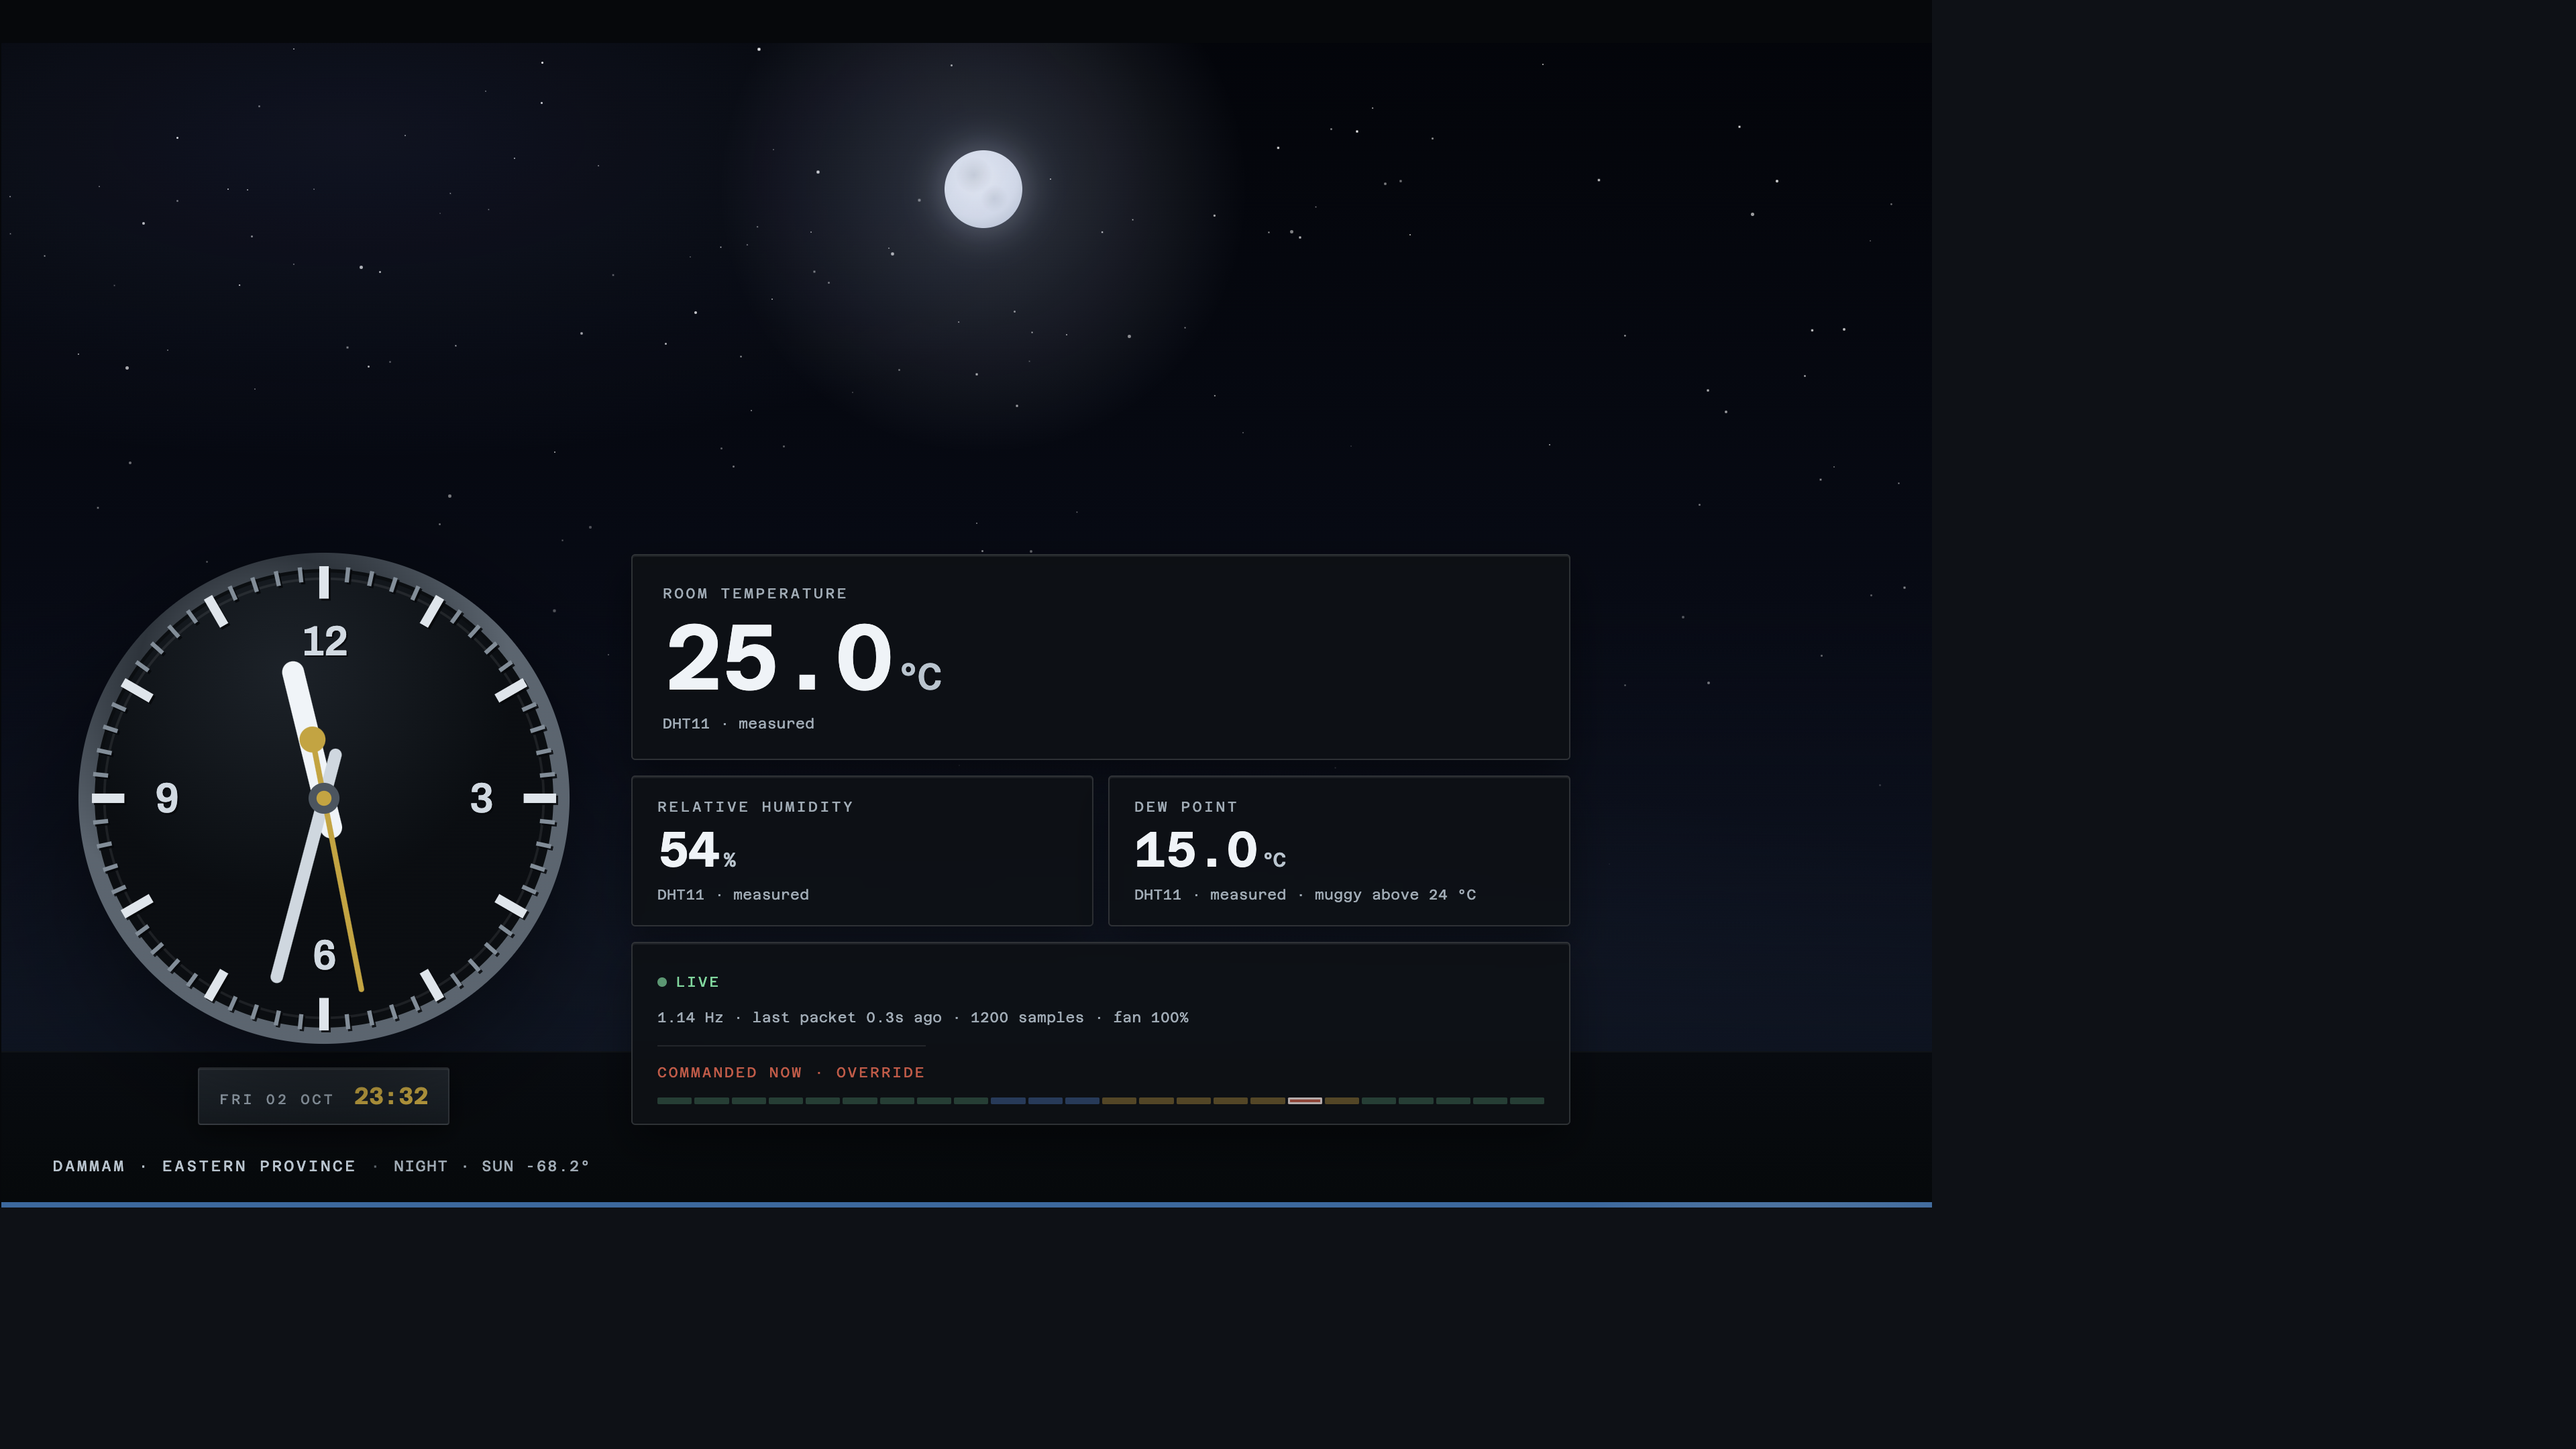
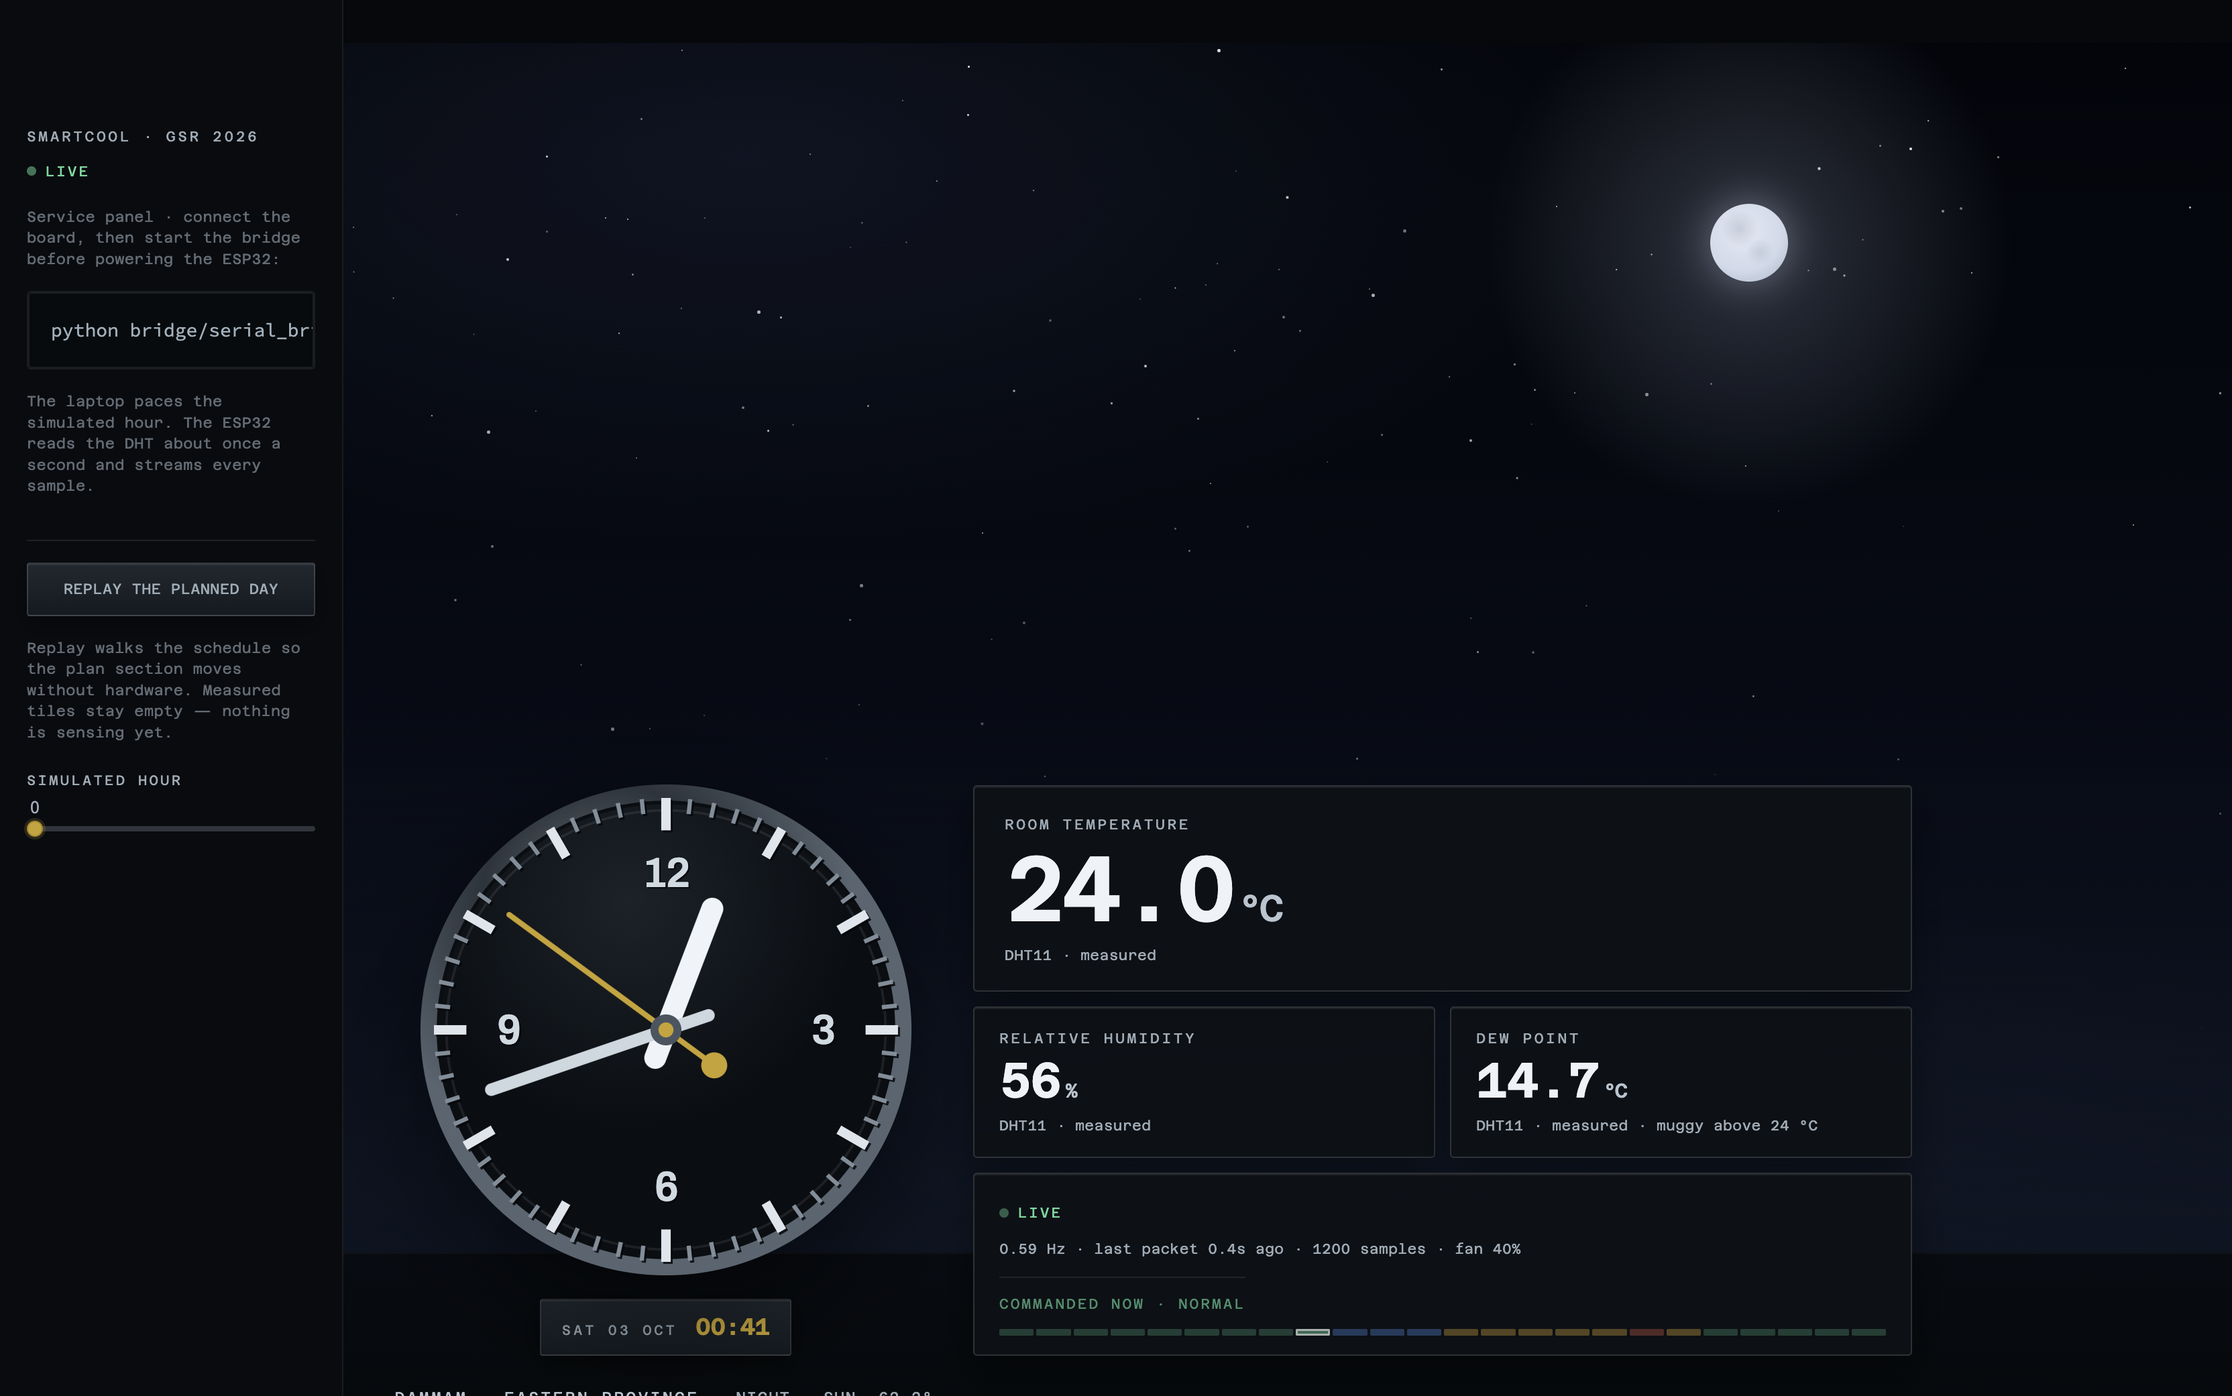
Polish console sidebar chrome and phone first-viewport density.
Hide default Streamlit chrome, theme the service panel to the instrument plates, and tighten the stacked hero so clock, sky, temp and humidity read on phone without scrolling.

diff --git a/dashboard/skyclock.py b/dashboard/skyclock.py
@@ -285,14 +285,96 @@ CSS = """
 html, body, [class*="css"] { font-family: 'Archivo', system-ui, sans-serif; }
 .stApp { background: #05080b; color: var(--sc-ink); }
 .block-container { padding: 0 0 4rem !important; max-width: 100% !important; }
-#MainMenu, footer, header { visibility: hidden; }
+/* Kill Streamlit chrome; keep only the sidebar expand control as an instrument latch. */
+#MainMenu, footer, [data-testid="stToolbar"], [data-testid="stDecoration"],
+[data-testid="stStatusWidget"], .stDeployButton { display: none !important; }
+header[data-testid="stHeader"] {
+  background: transparent !important; border: 0 !important;
+  height: 0 !important; min-height: 0 !important; padding: 0 !important;
+}
+[data-testid="stExpandSidebarButton"] {
+  position: fixed !important; top: 0.85rem; left: 0.85rem; z-index: 1000;
+  width: 2rem !important; height: 2rem !important;
+  background: linear-gradient(180deg, #202830 0%, #141a20 100%) !important;
+  border: 1px solid rgba(255,255,255,0.14) !important; border-radius: 2px !important;
+  box-shadow: 0 6px 16px rgba(0,0,0,0.45), inset 0 1px 0 rgba(255,255,255,0.08) !important;
+  color: var(--sc-ink-2) !important;
+}
+[data-testid="stExpandSidebarButton"]:hover {
+  border-color: rgba(201,162,39,0.55) !important; color: var(--sc-brass) !important;
+}
 ::selection { background: rgba(201,162,39,0.32); color: #fff; }
 ::-webkit-scrollbar { width: 11px; height: 11px; }
 ::-webkit-scrollbar-track { background: #05080b; }
 ::-webkit-scrollbar-thumb { background: #27313a; border: 3px solid #05080b; border-radius: 99px; }
 ::-webkit-scrollbar-thumb:hover { background: #3a4752; }
 :focus-visible { outline: 2px solid var(--sc-brass); outline-offset: 2px; }
-.stApp [data-testid="stSidebar"] { background: #080c10; border-right: 1px solid rgba(255,255,255,0.07); }
+
+/* Sidebar = service panel, same graphite/brass language as the plates. */
+.stApp [data-testid="stSidebar"] {
+  background: #080c10 !important;
+  border-right: 1px solid rgba(255,255,255,0.07) !important;
+  color: var(--sc-ink-2) !important;
+}
+[data-testid="stSidebar"] > div:first-child {
+  background: #080c10 !important;
+  padding-top: 1.1rem !important;
+}
+[data-testid="stSidebar"] [data-testid="stMarkdownContainer"] p,
+[data-testid="stSidebar"] [data-testid="stCaptionContainer"],
+[data-testid="stSidebar"] .stCaption {
+  font-family: 'Azeret Mono', monospace !important;
+  font-size: 0.68rem !important; line-height: 1.45 !important;
+  color: var(--sc-ink-3) !important; letter-spacing: 0.02em !important;
+}
+[data-testid="stSidebar"] [data-testid="stCode"],
+[data-testid="stSidebar"] pre {
+  background: #070b0e !important;
+  border: 1px solid rgba(255,255,255,0.08) !important;
+  border-radius: 3px !important;
+  color: #9fb0bd !important;
+  font-family: 'Azeret Mono', monospace !important;
+  font-size: 0.66rem !important;
+}
+[data-testid="stSidebar"] hr {
+  border: 0 !important; border-top: 1px solid rgba(255,255,255,0.09) !important;
+  margin: 1rem 0 !important;
+}
+[data-testid="stSidebar"] button[kind="secondary"],
+[data-testid="stSidebar"] [data-testid="stBaseButton-secondary"] {
+  background: linear-gradient(180deg, #202830 0%, #141a20 100%) !important;
+  border: 1px solid rgba(255,255,255,0.14) !important;
+  border-radius: 2px !important;
+  color: var(--sc-ink) !important;
+  font-family: 'Azeret Mono', monospace !important;
+  font-size: 0.66rem !important; letter-spacing: 0.12em !important;
+  text-transform: uppercase !important;
+  box-shadow: 0 6px 16px rgba(0,0,0,0.35), inset 0 1px 0 rgba(255,255,255,0.08) !important;
+}
+[data-testid="stSidebar"] button[kind="secondary"]:hover,
+[data-testid="stSidebar"] [data-testid="stBaseButton-secondary"]:hover {
+  border-color: rgba(201,162,39,0.55) !important; color: var(--sc-brass) !important;
+}
+[data-testid="stSidebar"] [data-testid="stWidgetLabel"] p,
+[data-testid="stSidebar"] label {
+  font-family: 'Azeret Mono', monospace !important;
+  font-size: 0.64rem !important; letter-spacing: 0.16em !important;
+  text-transform: uppercase !important; color: var(--sc-ink-3) !important;
+}
+[data-testid="stSidebar"] [data-testid="stSlider"] [role="slider"] {
+  background: var(--sc-brass) !important;
+  border: 1px solid #a8861a !important;
+  box-shadow: 0 0 0 2px rgba(201,162,39,0.18) !important;
+}
+[data-testid="stSidebar"] [data-baseweb="slider"] div[role="presentation"] > div {
+  background: rgba(255,255,255,0.12) !important;
+}
+[data-testid="stSidebarCollapseButton"] {
+  color: var(--sc-ink-2) !important;
+}
+[data-testid="stSidebarCollapseButton"]:hover {
+  color: var(--sc-brass) !important;
+}
 
 /* ── sky band ───────────────────────────────────────────────────────────── */
 /* The hero owns the whole first viewport: at 66vh the second band intruded on load and the
@@ -464,17 +546,53 @@ html, body, [class*="css"] { font-family: 'Archivo', system-ui, sans-serif; }
   padding: 0.8rem 0.95rem; overflow-x: auto; white-space: pre; line-height: 1.7;
 }
 @media (max-width: 1100px) {
-  /* The orbit is pinned to a 210px lane and the content starts below it, so the orb has
-     somewhere to be at every elevation instead of landing behind the dial. The sky label is
-     absolute at the band's foot, so leave it room under the stacked plates too. */
-  .sc-orbit { top: 26px; height: 200px; }   /* 26px so a high orb is not cropped by the band */
-  .sc-wrap { grid-template-columns: 1fr; justify-items: center; padding: 13rem 1.2rem 3.6rem; }
-  .sc-stage { min-height: 92vh; }
-  .sc-stage.sc-short { min-height: 78vh; }
-  .sc-dial { max-width: 258px; }
-  .sc-val.sc-xl { font-size: 3.2rem; }
-  .sc-section { padding: 2.6rem 1.2rem 0; }
-  .sc-stack { width: 100%; }
+  /* The orbit is pinned to a top lane and the content starts below it, so the orb has
+     somewhere to be at every elevation instead of landing behind the dial. */
+  .sc-orbit { top: 18px; height: 160px; }
+  .sc-wrap { grid-template-columns: 1fr; justify-items: center; padding: 10.5rem 1.1rem 2.4rem; gap: 1.1rem; }
+  .sc-stage { min-height: 100vh; }
+  .sc-stage.sc-short { min-height: 72vh; }
+  .sc-dial { max-width: 220px; }
+  .sc-dialwrap { gap: 0.55rem; }
+  .sc-nameplate { padding: 0.32rem 0.75rem; gap: 0.65rem; }
+  .sc-np-read { font-size: 0.95rem; }
+  .sc-val.sc-xl { font-size: 2.8rem; }
+  .sc-val.sc-lg { font-size: 1.85rem; }
+  .sc-plate { padding: 0.72rem 0.95rem; }
+  .sc-plate.sc-lead { padding: 0.95rem 1.05rem 0.85rem; }
+  .sc-stack { width: 100%; gap: 0.55rem; }
+  .sc-row2 { gap: 0.55rem; }
+  .sc-section { padding: 2.4rem 1.1rem 0; }
+  .sc-skylabel { left: 1.1rem; bottom: 0.85rem; font-size: 0.62rem; }
+}
+@media (max-width: 640px) {
+  /* Phone first viewport: clock + sky + temp + humidity must read without scrolling.
+     Dew and the live strip may kiss the fold; they stay in the same stage. */
+  .sc-orbit { top: 10px; height: 118px; }
+  .sc-glow { width: 280px; height: 280px; margin: -140px 0 0 -140px; }
+  .sc-orb { width: 42px; height: 42px; margin: -21px 0 0 -21px; }
+  .sc-wrap { padding: 7.6rem 0.85rem 1.6rem; gap: 0.85rem; align-items: start; }
+  .sc-stage { min-height: 100svh; }
+  .sc-stage.sc-short { min-height: 70svh; }
+  .sc-dial { max-width: 168px; }
+  .sc-dialwrap { gap: 0.4rem; }
+  .sc-nameplate { padding: 0.28rem 0.65rem; gap: 0.5rem; }
+  .sc-np-cap { font-size: 0.56rem; letter-spacing: 0.14em; }
+  .sc-np-read { font-size: 0.84rem; }
+  .sc-val.sc-xl { font-size: 2.35rem; }
+  .sc-val.sc-lg { font-size: 1.45rem; }
+  .sc-val.sc-md { font-size: 1.15rem; }
+  .sc-plate { padding: 0.55rem 0.75rem; box-shadow: 0 8px 18px rgba(0,0,0,0.38), inset 0 1px 0 rgba(255,255,255,0.07); }
+  .sc-plate.sc-lead { padding: 0.7rem 0.85rem 0.6rem; }
+  .sc-lbl { font-size: 0.58rem; letter-spacing: 0.14em; }
+  .sc-note { font-size: 0.58rem; margin-top: 0.28rem; }
+  .sc-stack { gap: 0.45rem; }
+  .sc-row2 { gap: 0.45rem; }
+  .sc-hairline { margin-top: 0.5rem; padding-top: 0.45rem; }
+  .sc-mode { font-size: 1.35rem; }
+  .sc-section { padding: 2rem 0.85rem 0; }
+  .sc-h2 { font-size: 1.25rem; }
+  .sc-skylabel { left: 0.85rem; right: 0.85rem; bottom: 0.55rem; font-size: 0.56rem; }
 }
 </style>
 """

diff --git a/dashboard/app.py b/dashboard/app.py
@@ -190,11 +190,11 @@ TICKING = device_live or st.session_state.replaying
 
 with st.sidebar:
     st.markdown("<div class='sc-lbl'>SmartCool · GSR 2026</div>", unsafe_allow_html=True)
-    st.markdown(f"<div class='sc-tag' style='color:{STATE_COLOR[status['state']]};margin:.5rem 0 1rem'>"
+    st.markdown(f"<div class='sc-tag' style='color:{STATE_COLOR[status['state']]};margin:.55rem 0 1.1rem'>"
                 f"<span class='sc-dot{' sc-beat' if device_live else ''}' "
                 f"style='background:{STATE_COLOR[status['state']]}'></span>{status['badge']}</div>",
                 unsafe_allow_html=True)
-    st.caption('Connect the board, then start the bridge before powering the ESP32:')
+    st.caption('Service panel · connect the board, then start the bridge before powering the ESP32:')
     st.code('python bridge/serial_bridge.py --port /dev/cu.usbserial-0001', language=None)
     st.caption('The laptop paces the simulated hour. The ESP32 reads the DHT about once a '
                'second and streams every sample.')
@@ -207,7 +207,7 @@ with st.sidebar:
     st.caption('Replay walks the schedule so the plan section moves without hardware. '
                'Measured tiles stay empty — nothing is sensing yet.')
     st.session_state.replay_slider = st.session_state.replay_hour
-    st.slider('Hour', 0, 23, key='replay_slider', on_change=_on_replay_hour,
+    st.slider('Simulated hour', 0, 23, key='replay_slider', on_change=_on_replay_hour,
               disabled=device_live or st.session_state.replaying)
 
 # ══ 1. NOW ═══════════════════════════════════════════════════════════════════
